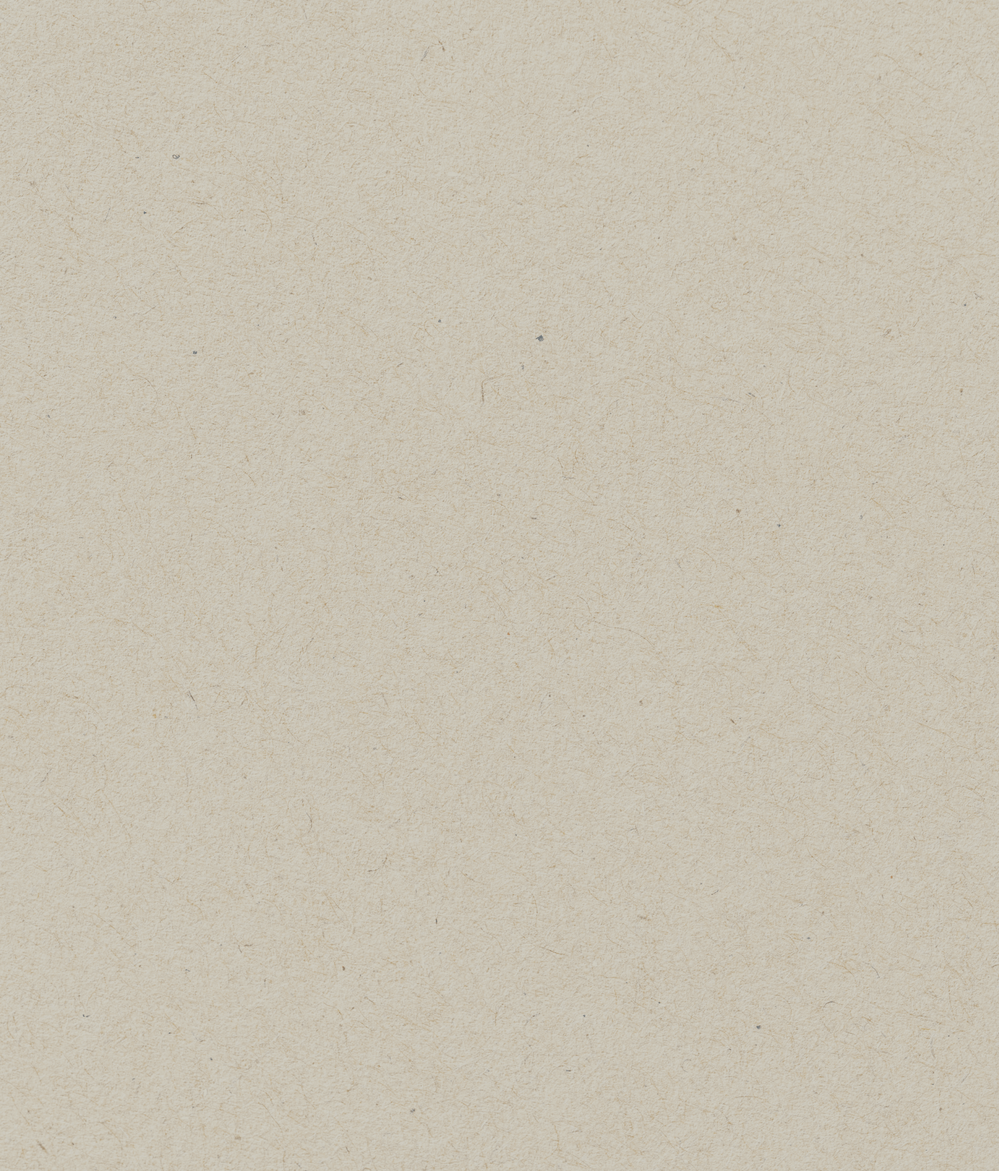
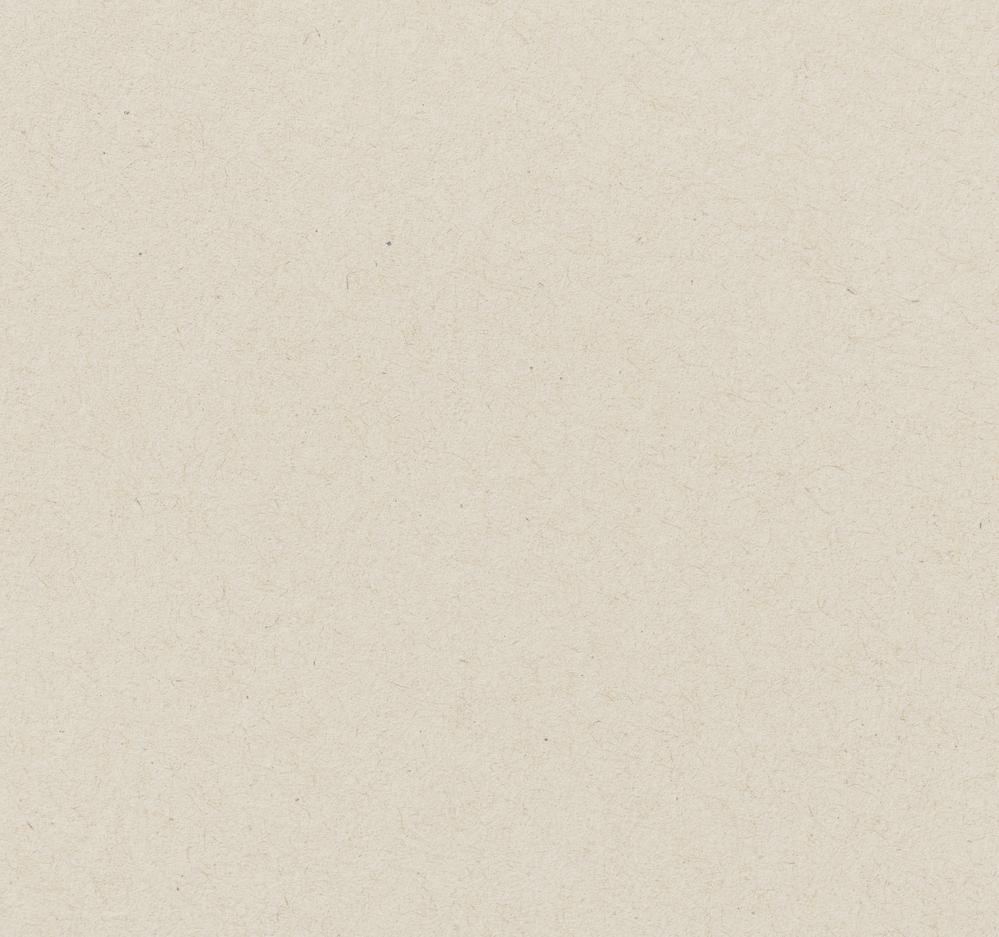
feat: update bg & style card cropping behavior

diff --git a/src/app/globals.css b/src/app/globals.css
@@ -4,7 +4,7 @@ html {
   background-color: #f3f0e8;
 }
 body {
-  background: url(/images/bg.png) no-repeat center / cover fixed;
+  background: url(/images/bg.png) repeat 0 0 / 1920px auto;
   font-family: 'Averta PE', sans-serif;
 }
 

diff --git a/src/components/StylePreviewCard.tsx b/src/components/StylePreviewCard.tsx
@@ -86,7 +86,7 @@ const imageBox = css({
   w: '100%',
   h: '320px',
   rounded: '25px',
-  bg: 'no-repeat top center / 100% auto',
+  bg: 'no-repeat center / cover',
 })
 
 const titleWrapper = css({
